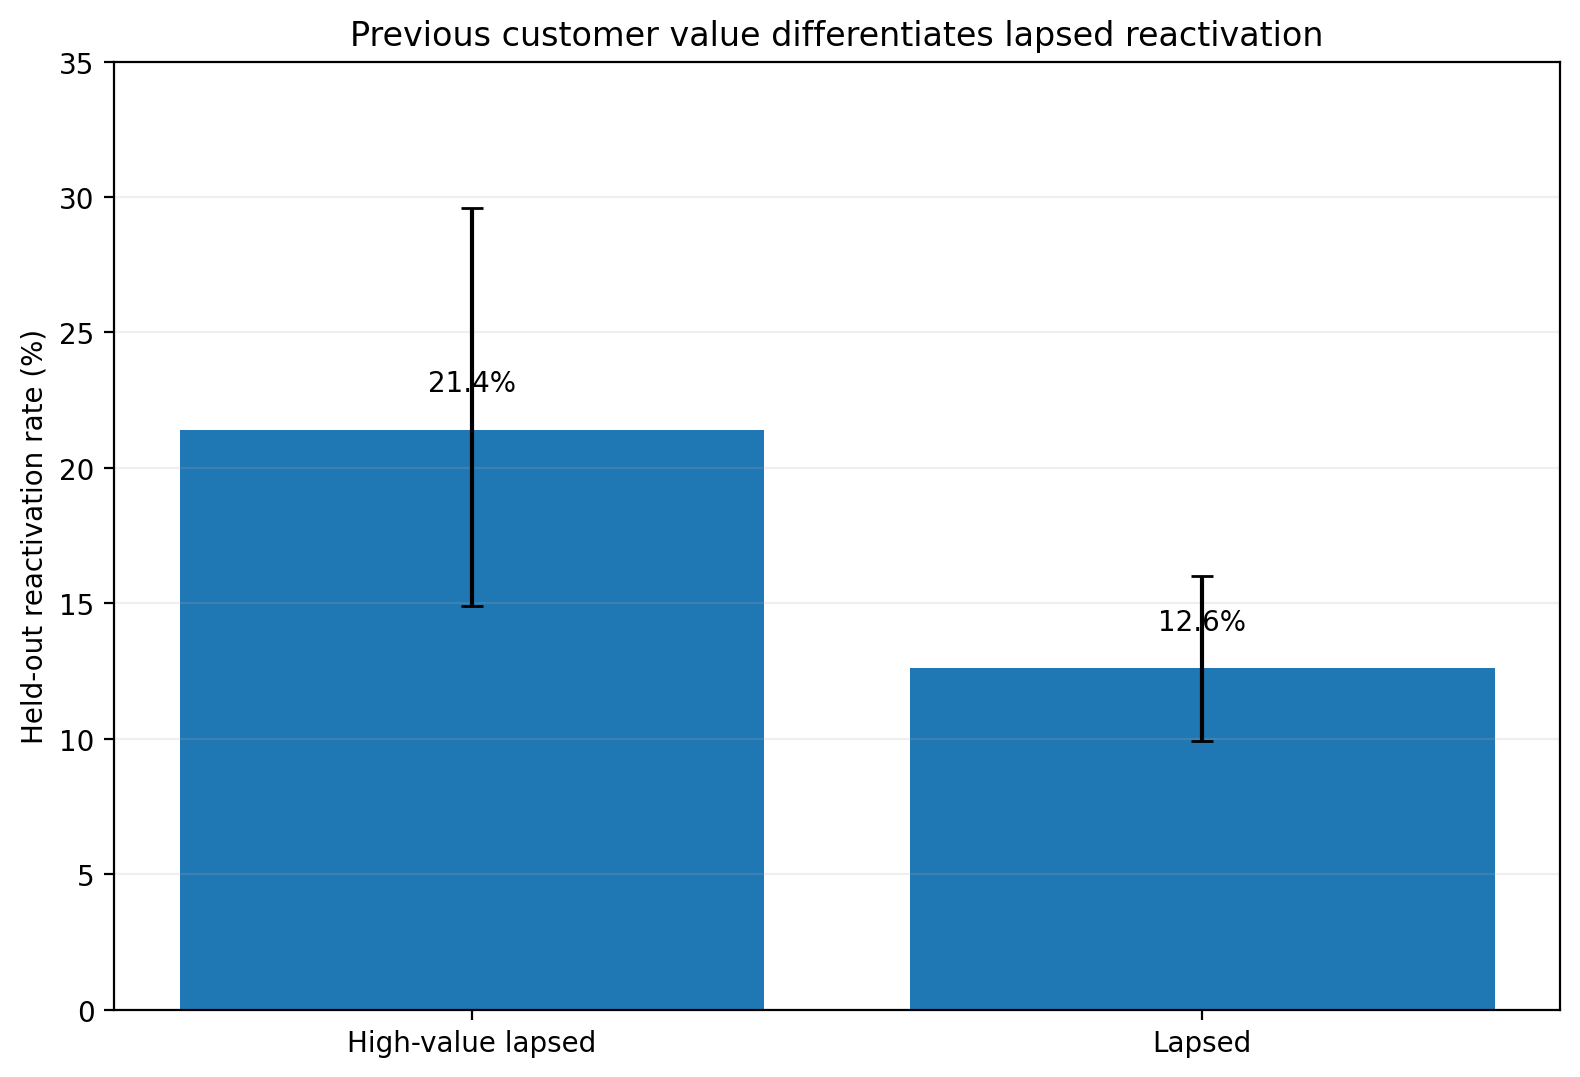
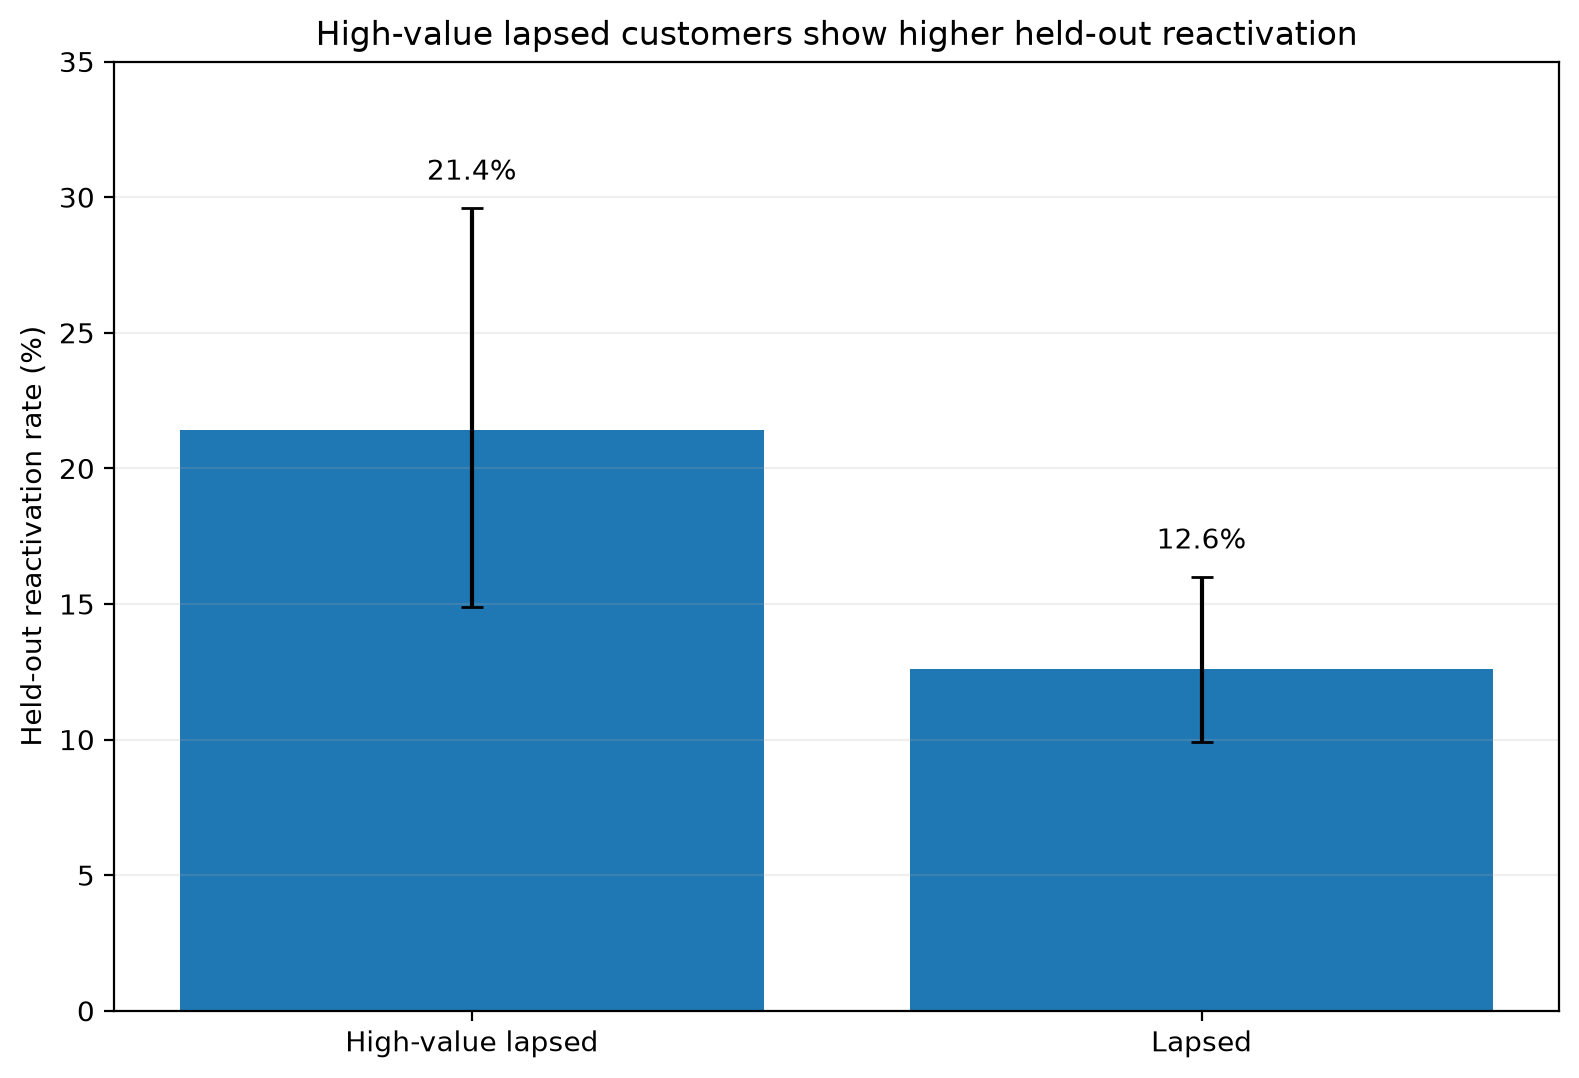
Improve pipeline reproducibility and performance

diff --git a/python/06_create_segment_outputs.py b/python/06_create_segment_outputs.py
@@ -490,6 +490,8 @@ def build_segment_summary(data):
         "average_future_observed_net_sales": 2,
         "total_future_observed_net_sales": 2,
         "average_future_product_breadth": 1,
+        "positive_snapshot_value": 2,
+        "positive_future_value": 2,
         "positive_snapshot_value_share_pct": 1,
         "positive_future_value_share_pct": 1,
     }
@@ -670,12 +672,15 @@ def save_future_purchase_chart(summary, overall_rate):
         alpha=0.2,
     )
 
-    for bar, rate in zip(
+    # Position labels beyond the upper Wilson bound so they do not
+    # overlap the confidence-interval whiskers.
+    for bar, rate, upper_bound in zip(
         bars,
         rates,
+        plot_data["future_purchase_rate_ci95_upper_pct"],
     ):
         ax.text(
-            rate + 1.5,
+            min(upper_bound + 1.5, 98),
             bar.get_y() + bar.get_height() / 2,
             f"{rate:.1f}%",
             va="center",
@@ -862,7 +867,7 @@ def save_reactivation_chart(summary):
     )
 
     ax.set_title(
-        "Previous customer value differentiates lapsed reactivation"
+        "High-value lapsed customers show higher held-out reactivation"
     )
 
     ax.grid(
@@ -870,13 +875,16 @@ def save_reactivation_chart(summary):
         alpha=0.2,
     )
 
-    for bar, rate in zip(
+    # Place labels above the upper Wilson bound so the vertical
+    # confidence-interval whiskers do not run through the text.
+    for bar, rate, upper_bound in zip(
         bars,
         rates,
+        plot_data["future_purchase_rate_ci95_upper_pct"],
     ):
         ax.text(
             bar.get_x() + bar.get_width() / 2,
-            rate + 1.2,
+            upper_bound + 0.8,
             f"{rate:.1f}%",
             ha="center",
             va="bottom",

diff --git a/python/03_build_database.py b/python/03_build_database.py
@@ -60,6 +60,12 @@ def build_database(transactions: pd.DataFrame) -> None:
 
     DATABASE_FILE.parent.mkdir(parents=True, exist_ok=True)
 
+    # Rebuild the generated database from scratch so stale analytical
+    # tables or views from an earlier run cannot survive into a fresh
+    # pipeline execution.
+    if DATABASE_FILE.exists():
+        DATABASE_FILE.unlink()
+
     with sqlite3.connect(DATABASE_FILE) as connection:
         # Replace the generated table so rerunning the script produces a
         # reproducible database rather than appending duplicate records.

diff --git a/docs/run_project_locally.md b/docs/run_project_locally.md
@@ -1,0 +1,217 @@
+# Reproducing Project 03 locally
+
+This guide reproduces **Project 03: Customer Value & Retention Segmentation** from the original UCI Online Retail II workbook through to the final reports and visualisations.
+
+The final reproducibility test used:
+
+- Python 3.13.14
+- pandas 3.0.3
+- matplotlib 3.11.0
+- openpyxl 3.1.5
+- SQLite through Python's standard `sqlite3` library
+
+The tested dependency versions are pinned in `requirements.txt`.
+
+## 1. Obtain the source data
+
+Download **Online Retail II** from the UCI Machine Learning Repository:
+
+https://doi.org/10.24432/C5CG6D
+
+Place the original Excel workbook at:
+
+```text
+data/raw/online_retail_II.xlsx
+```
+
+The raw workbook is not committed to this repository.
+
+The dataset is published under the **CC BY 4.0** licence. See `data_sources.md` for provenance and source-handling details.
+
+## 2. Create a Python environment
+
+Python 3.13 is recommended because this is the version used for the final reproducibility test.
+
+From the repository root:
+
+```powershell
+python --version
+python -m venv .venv
+.\.venv\Scripts\Activate.ps1
+python -m pip install --upgrade pip
+python -m pip install -r requirements.txt
+```
+
+Confirm the installed package versions:
+
+```powershell
+python -c "import pandas, matplotlib, openpyxl; print('pandas', pandas.__version__); print('matplotlib', matplotlib.__version__); print('openpyxl', openpyxl.__version__)"
+```
+
+## 3. Profile and prepare the source
+
+Run:
+
+```powershell
+python python\01_profile_source_data.py
+```
+
+The corrected source should contain:
+
+```text
+1,044,848 rows
+```
+
+Then run:
+
+```powershell
+python python\02_clean_transactions.py
+```
+
+The cleaning gate should report:
+
+```text
+Unresolved rows: 0
+Unresolved StockCodes: 0
+```
+
+## 4. Build the SQLite analytical database
+
+```powershell
+python python\03_build_database.py
+```
+
+The generated database is:
+
+```text
+data/database/online_retail.db
+```
+
+The database is rebuilt from scratch on each run so stale analytical objects cannot survive from a previous execution.
+
+Generated intermediate, cleaned and database files are intentionally excluded from version control.
+
+## 5. Build and validate the SQL analytical layers
+
+Run the SQL files in this order:
+
+```powershell
+python python\04_run_sql.py sql\01_data_reconciliation.sql
+python python\04_run_sql.py sql\02_create_invoice_layer.sql
+python python\04_run_sql.py sql\03_investigate_invoice_timestamps.sql
+python python\04_run_sql.py sql\04_investigate_customer_population.sql
+python python\04_run_sql.py sql\05_create_customer_snapshot_features.sql
+python python\04_run_sql.py sql\06_investigate_customer_reconciliation.sql
+python python\04_run_sql.py sql\07_profile_customer_features.sql
+python python\04_run_sql.py sql\08_investigate_reactivation_features.sql
+```
+
+The validated snapshot population should contain:
+
+```text
+4,908 eligible customers
+4,324 behavioural purchasers
+584 historical-only purchasers
+```
+
+Behavioural observed customer value should reconcile to:
+
+```text
+£7,762,616.79
+```
+
+## 6. Assess candidate customer features
+
+```powershell
+python python\05_assess_customer_features.py
+```
+
+This profiles feature distributions, redundancy, value concentration, recent activity patterns and potential segmentation measures.
+
+## 7. Build the final segmentation
+
+```powershell
+python python\04_run_sql.py sql\09_create_segmentation_features.sql
+python python\04_run_sql.py sql\11_create_customer_segments.sql
+```
+
+`sql/10_prototype_segment_design.sql` is intentionally absent from the final public workflow. The prototype logic was superseded by the final evidence-led segment design and was not retained as production code.
+
+The final segmentation should assign all **4,908 customers uniquely across eight segments**.
+
+## 8. Run held-out validation and sensitivity checks
+
+```powershell
+python python\04_run_sql.py sql\12_validate_segments.sql
+python python\04_run_sql.py sql\13_segment_sensitivity_checks.sql
+```
+
+The held-out validation should reproduce:
+
+```text
+2,549 future purchasers
+51.9% overall future purchase rate
+8,470 future purchase invoices
+£4,170,456.73 held-out observed net sales
+```
+
+## 9. Generate the final portfolio outputs
+
+```powershell
+python python\06_create_segment_outputs.py
+```
+
+This recreates:
+
+```text
+reports/customer_segment_summary.csv
+reports/customer_segment_actions.csv
+
+visuals/01_customer_population_by_segment.png
+visuals/02_future_purchase_rate_by_segment.png
+visuals/03_snapshot_vs_future_value_share.png
+visuals/04_lapsed_customer_reactivation.png
+```
+
+The reporting script contains explicit QA gates for:
+
+- the 4,908-customer population;
+- exact segment membership;
+- held-out purchaser count;
+- snapshot observed value;
+- held-out observed value.
+
+The script terminates with an error if these established totals drift unexpectedly.
+
+## 10. Final checks
+
+After the complete run:
+
+```powershell
+git status --short
+git diff --check
+```
+
+## Reproducibility note
+
+During final QA, an inefficient SQLite reconciliation join was identified in the customer-snapshot stage.
+
+The original reconciliation joined the behavioural transaction layer to a derived eligible-customer set. SQLite selected an inefficient join strategy, making the check impractically slow despite the underlying customer calculations being fast.
+
+The reconciliation was redesigned to use the already-validated, materialised invoice layer.
+
+The analytical result was unchanged:
+
+```text
+£7,762,616.79 = £7,762,616.79
+```
+
+The complete customer-snapshot SQL stage then fell from an impractically long runtime to well under one second in the tested environment.
+
+The database was subsequently rebuilt from scratch and the complete database-to-output pipeline passed successfully.
+
+## Analytical scope
+
+The held-out validation is descriptive and predictive, not causal.
+
+It tests whether snapshot-defined customer groups remain commercially differentiated in later behaviour. It does not estimate campaign uplift or demonstrate that segment membership causes later purchasing.

diff --git a/README.md b/README.md
@@ -233,7 +233,11 @@ Final analytical outputs include:
 
 Power BI and Excel are not forced into this project because they do not improve the analytical decision and those capabilities are demonstrated elsewhere in the portfolio.
 
-## Reproducible flow
+## Reproducibility
+
+The project has been rerun from the original UCI workbook through cleaning, a fresh SQLite database, final segmentation, held-out validation, sensitivity analysis and regenerated portfolio outputs.
+
+The final reproducibility test used **Python 3.13.14** with pinned package versions in `requirements.txt`.
 
 ```text
 validated source
@@ -247,8 +251,10 @@ validated source
 → CRM priorities and visual outputs
 ```
 
+See [`docs/run_project_locally.md`](docs/run_project_locally.md) for the complete tested execution order and expected QA totals.
+
 ## Status
 
-**Analysis complete — final publication, reproducibility and repository QA in progress.**
+**Analysis and reproducibility complete — final repository publication and merge QA in progress.**
 
 See [`project_plan.md`](project_plan.md) for the initial analytical design, [`data_sources.md`](data_sources.md) for source provenance and licence information, and [`docs/segmentation_and_validation_methodology.md`](docs/segmentation_and_validation_methodology.md) for the final segmentation methodology.

diff --git a/docs/index.md b/docs/index.md
@@ -270,6 +270,7 @@ For readers who want to inspect the implementation:
 * [README](https://github.com/jsklair/project_03_customer_value_segmentation#readme)
 * [Segmentation and validation methodology](https://github.com/jsklair/project_03_customer_value_segmentation/blob/main/docs/segmentation_and_validation_methodology.md)
 * [Data-quality and cleaning decisions](https://github.com/jsklair/project_03_customer_value_segmentation/blob/main/docs/data_quality_and_cleaning_decisions.md)
+* [Reproduce the analysis locally](https://github.com/jsklair/project_03_customer_value_segmentation/blob/main/docs/run_project_locally.md)
 * [Final segment summary](https://github.com/jsklair/project_03_customer_value_segmentation/blob/main/reports/customer_segment_summary.csv)
 * [CRM action summary](https://github.com/jsklair/project_03_customer_value_segmentation/blob/main/reports/customer_segment_actions.csv)
 
